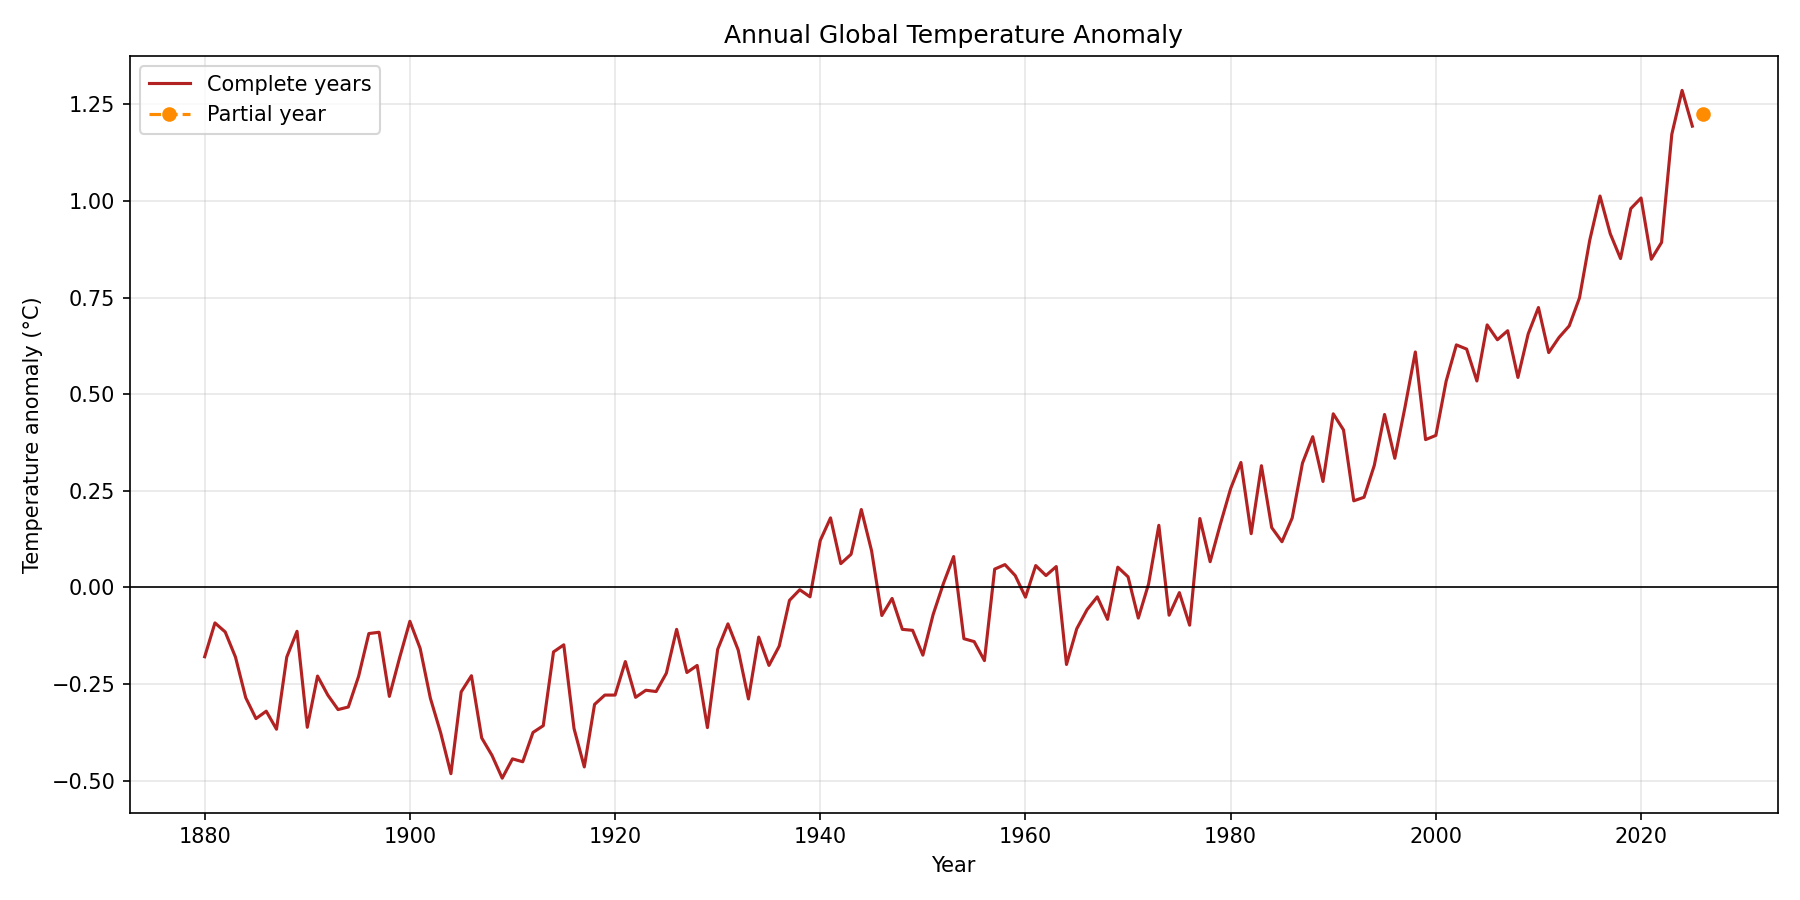
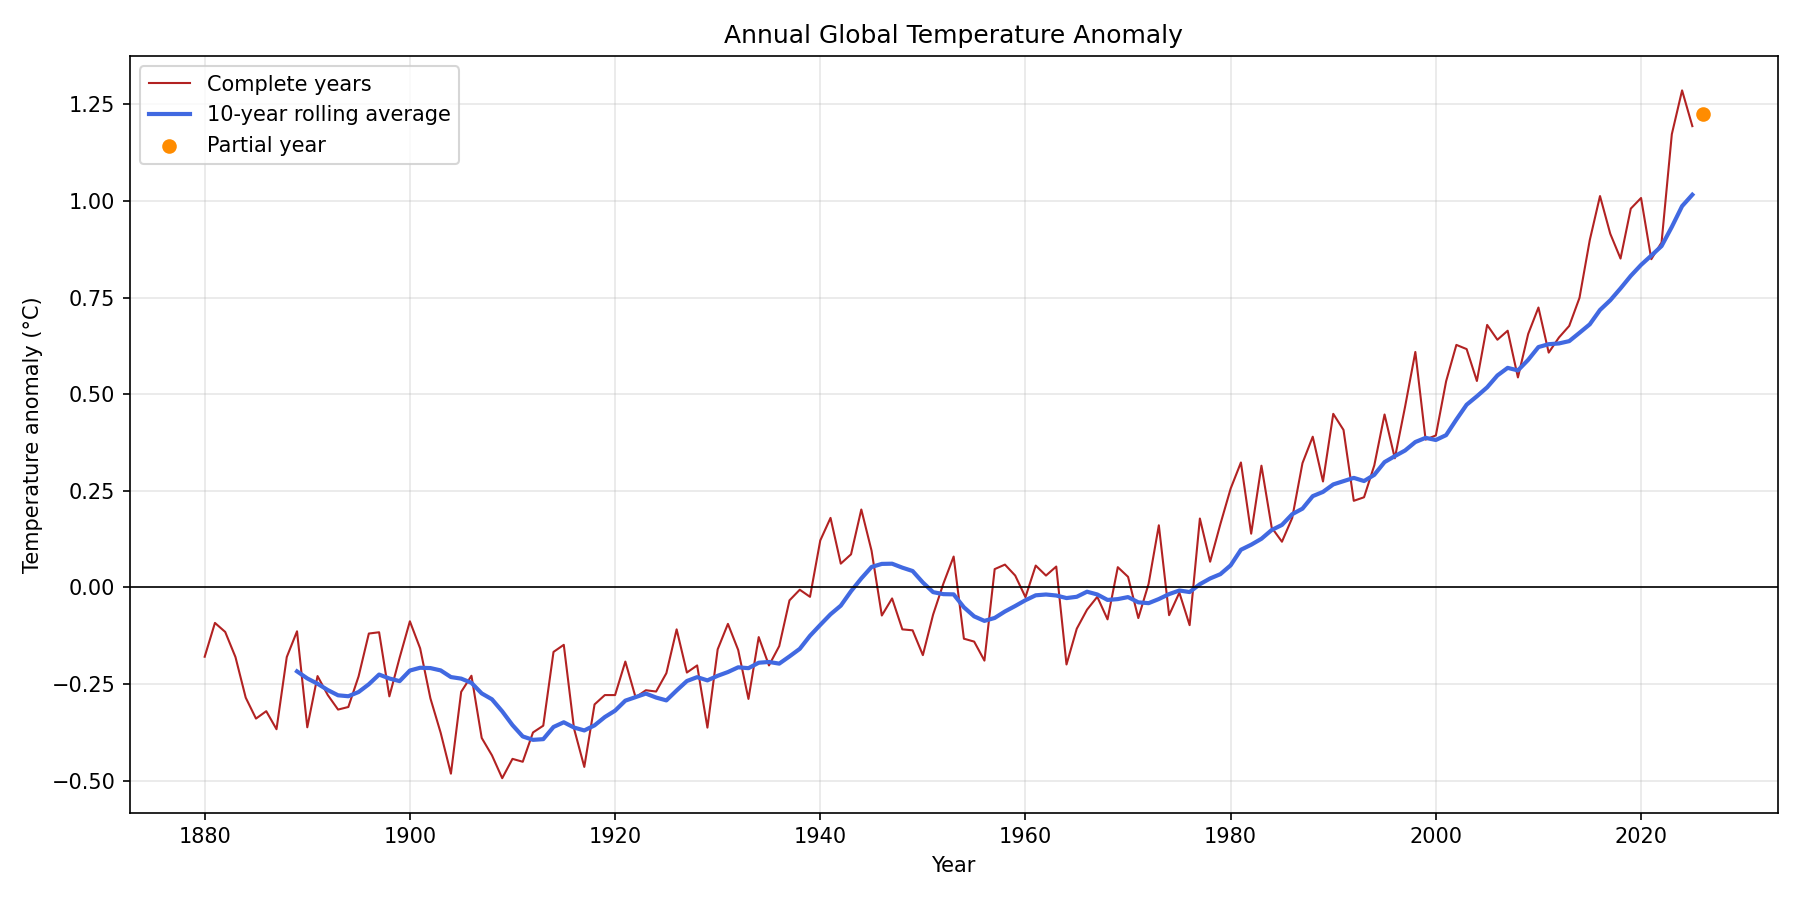
complete climate data analysis phase

diff --git a/src/climate_agent/analyze_temperature.py b/src/climate_agent/analyze_temperature.py
@@ -1,59 +1,130 @@
-import pandas as pd
-import matplotlib.pyplot as plt
 from pathlib import Path
+
+import matplotlib.pyplot as plt
+import pandas as pd
+
 from src.climate_agent.data_loader import load_nasa_temperature_data
 
+
+# Find the project root from this script's location.
 PROJECT_ROOT = Path(__file__).resolve().parents[2]
+
+# Input and output files.
 DATA_FILE = PROJECT_ROOT / "data" / "raw" / "nasa_global_temperature.csv"
+OUTPUT_DIR = PROJECT_ROOT / "outputs"
 
-rows = load_nasa_temperature_data(str(DATA_FILE))
 
-# Make a DataFrame: a table-like structure that pandas can analyze.
-data = pd.DataFrame(rows)
+def main() -> None:
+    """Load, validate, summarize, and plot global temperature anomalies."""
+    # Make sure the output folder exists.
+    OUTPUT_DIR.mkdir(parents=True, exist_ok=True)
 
-# Group the monthly records by year and calculate each year's mean.
-data["year"] = pd.to_datetime(data["date"]).dt.year
-annual_data = data.groupby("year", as_index=False)["temperature_anomaly"].mean()
-# Keep only years with all 12 monthly records as complete years.
-monthly_counts = data.groupby("year")["temperature_anomaly"].count()
-annual_data["month_count"] = annual_data["year"].map(monthly_counts)
+    # Load the cleaned monthly records from the NOAA PSL CSV.
+    rows = load_nasa_temperature_data(str(DATA_FILE))
 
-complete_years = annual_data[annual_data["month_count"] == 12]
-partial_years = annual_data[annual_data["month_count"] < 12]
+    if not rows:
+        raise ValueError(f"No valid temperature records found in {DATA_FILE}")
 
-print("Latest annual values:")
-print(annual_data.tail())
-plt.figure(figsize=(12, 6))
+    # Convert the list of records into a pandas DataFrame.
+    data = pd.DataFrame(rows)
 
-# Draw complete years with a solid line.
-plt.plot(
-    complete_years["year"],
-    complete_years["temperature_anomaly"],
-    color="firebrick",
-    label="Complete years",
-)
+    # Ensure dates are represented as pandas datetime values.
+    data["date"] = pd.to_datetime(data["date"])
 
-# Draw incomplete years separately with a dashed line.
-if not partial_years.empty:
-    plt.plot(
-        partial_years["year"],
-        partial_years["temperature_anomaly"],
-        color="darkorange",
-        marker="o",
-        linestyle="--",
-        label="Partial year",
+    # Add a year column so monthly values can be grouped by year.
+    data["year"] = data["date"].dt.year
+
+    # Count valid monthly readings for each year.
+    monthly_counts = data.groupby("year")["temperature_anomaly"].count()
+
+    # Calculate the mean anomaly for each year.
+    annual_data = (
+        data.groupby("year", as_index=False)["temperature_anomaly"]
+        .mean()
     )
 
-plt.axhline(0, color="black", linewidth=0.8)
-plt.title("Annual Global Temperature Anomaly")
-plt.xlabel("Year")
-plt.ylabel("Temperature anomaly (°C)")
-plt.grid(True, alpha=0.3)
-plt.legend()
-plt.tight_layout()
+    # Add the number of available months and mark full years.
+    annual_data["month_count"] = annual_data["year"].map(monthly_counts)
+    annual_data["is_complete_year"] = annual_data["month_count"] == 12
 
-output_dir = PROJECT_ROOT / "outputs"
-output_dir.mkdir(parents=True, exist_ok=True)
-plt.savefig(output_dir / "annual_temperature_anomaly.png", dpi=150)
+    # Separate complete and partial years.
+    complete_years = annual_data[annual_data["is_complete_year"]].copy()
+    partial_years = annual_data[~annual_data["is_complete_year"]].copy()
 
-plt.show()
+    # Calculate a 10-year rolling average using complete years only.
+    complete_years["rolling_avg_10y"] = (
+        complete_years["temperature_anomaly"]
+        .rolling(window=10, min_periods=10)
+        .mean()
+    )
+
+    # Add the rolling average to the full annual table.
+    rolling_averages = complete_years.set_index("year")["rolling_avg_10y"]
+    annual_data["rolling_avg_10y"] = annual_data["year"].map(rolling_averages)
+
+    # Show the data quality check and the most recent values.
+    print("Incomplete years:")
+    if partial_years.empty:
+        print("None")
+    else:
+        print(partial_years[["year", "month_count"]].to_string(index=False))
+
+    print("\nLatest annual values:")
+    print(annual_data.tail().to_string(index=False))
+
+    # Save the processed annual data as a CSV file.
+    annual_csv_file = OUTPUT_DIR / "annual_temperature_summary.csv"
+    annual_data.to_csv(annual_csv_file, index=False)
+
+    # Create the chart.
+    plt.figure(figsize=(12, 6))
+
+    # Annual values for years with all 12 months.
+    plt.plot(
+        complete_years["year"],
+        complete_years["temperature_anomaly"],
+        color="firebrick",
+        linewidth=1,
+        label="Complete years",
+    )
+
+    # 10-year moving average, which emphasizes the long-term pattern.
+    plt.plot(
+        complete_years["year"],
+        complete_years["rolling_avg_10y"],
+        color="royalblue",
+        linewidth=2,
+        label="10-year rolling average",
+    )
+
+    # Show partial years separately.
+    if not partial_years.empty:
+        plt.scatter(
+            partial_years["year"],
+            partial_years["temperature_anomaly"],
+            color="darkorange",
+            label="Partial year",
+            zorder=3,
+        )
+
+    # Add chart labels and styling.
+    plt.axhline(0, color="black", linewidth=0.8)
+    plt.title("Annual Global Temperature Anomaly")
+    plt.xlabel("Year")
+    plt.ylabel("Temperature anomaly (°C)")
+    plt.grid(True, alpha=0.3)
+    plt.legend()
+    plt.tight_layout()
+
+    # Save the chart into the outputs folder.
+    chart_file = OUTPUT_DIR / "annual_temperature_anomaly.png"
+    plt.savefig(chart_file, dpi=150)
+
+    print(f"\nSaved annual data to: {annual_csv_file}")
+    print(f"Saved chart to: {chart_file}")
+
+    plt.show()
+
+
+if __name__ == "__main__":
+    main()

diff --git a/src/climate_agent/data_loader.py b/src/climate_agent/data_loader.py
@@ -1,49 +1,71 @@
 import csv
-from pathlib import Path
 from datetime import date
 
-def load_csv(file_path: str) -> list[dict[str, str]]:
-    """Read a CSV file and return its rows as dictionaries."""
-    path = Path(file_path)
 
-    with path.open(mode="r", encoding="utf-8", newline="") as csv_file:
+def load_csv(file_path: str) -> list[dict[str, str]]:
+    """Read a standard CSV file and return its rows as dictionaries."""
+    with open(file_path, mode="r", encoding="utf-8", newline="") as csv_file:
         reader = csv.DictReader(csv_file)
         return list(reader)
 
 
 def convert_climate_rows(rows: list[dict[str, str]]) -> list[dict]:
-    """Convert climate CSV values into appropriate Python types."""
+    """Convert the sample climate CSV values into Python types."""
     converted_rows = []
 
     for row in rows:
-        converted_rows.append({
-            "year": int(row["year"]),
-            "region": row["region"],
-            "temperature_anomaly": float(row["temperature_anomaly"]),
-        })
+        converted_rows.append(
+            {
+                "year": int(row["year"]),
+                "region": row["region"],
+                "temperature_anomaly": float(row["temperature_anomaly"]),
+            }
+        )
 
     return converted_rows
 
+
 def load_nasa_temperature_data(file_path: str) -> list[dict]:
-    """Load monthly NASA temperature anomalies from the NOAA PSL CSV file."""
-    rows = []
+    """Load monthly temperature anomalies from the NOAA PSL CSV file."""
+    records = []
 
     with open(file_path, mode="r", encoding="utf-8", newline="") as csv_file:
-        # Skip the descriptive first line; data starts on the next line.
+        # The first line contains source information rather than column names.
         next(csv_file)
 
-        for line in csv_file:
-            date_text, value_text = line.strip().split(",")
+        for line_number, line in enumerate(csv_file, start=2):
+            line = line.strip()
 
-            value = float(value_text)
-
-            # NOAA marks missing values with 9999.
-            if value == -9999:
+            if not line:
                 continue
 
-            rows.append({
-                "date": date.fromisoformat(date_text),
-                "temperature_anomaly": value,
-            })
+            columns = line.split(",")
 
-    return rows
+            if len(columns) != 2:
+                raise ValueError(
+                    f"Unexpected format on line {line_number}: {line}"
+                )
+
+            date_text = columns[0].strip()
+            value_text = columns[1].strip()
+
+            try:
+                anomaly = float(value_text)
+            except ValueError as error:
+                raise ValueError(
+                    f"Invalid temperature value on line {line_number}: "
+                    f"{value_text}"
+                ) from error
+
+            # NOAA PSL marks missing measurements with -9999.
+            if anomaly == -9999:
+                continue
+
+            records.append(
+                {
+                    "date": date.fromisoformat(date_text),
+                    "temperature_anomaly": anomaly,
+                }
+            )
+
+    return records
